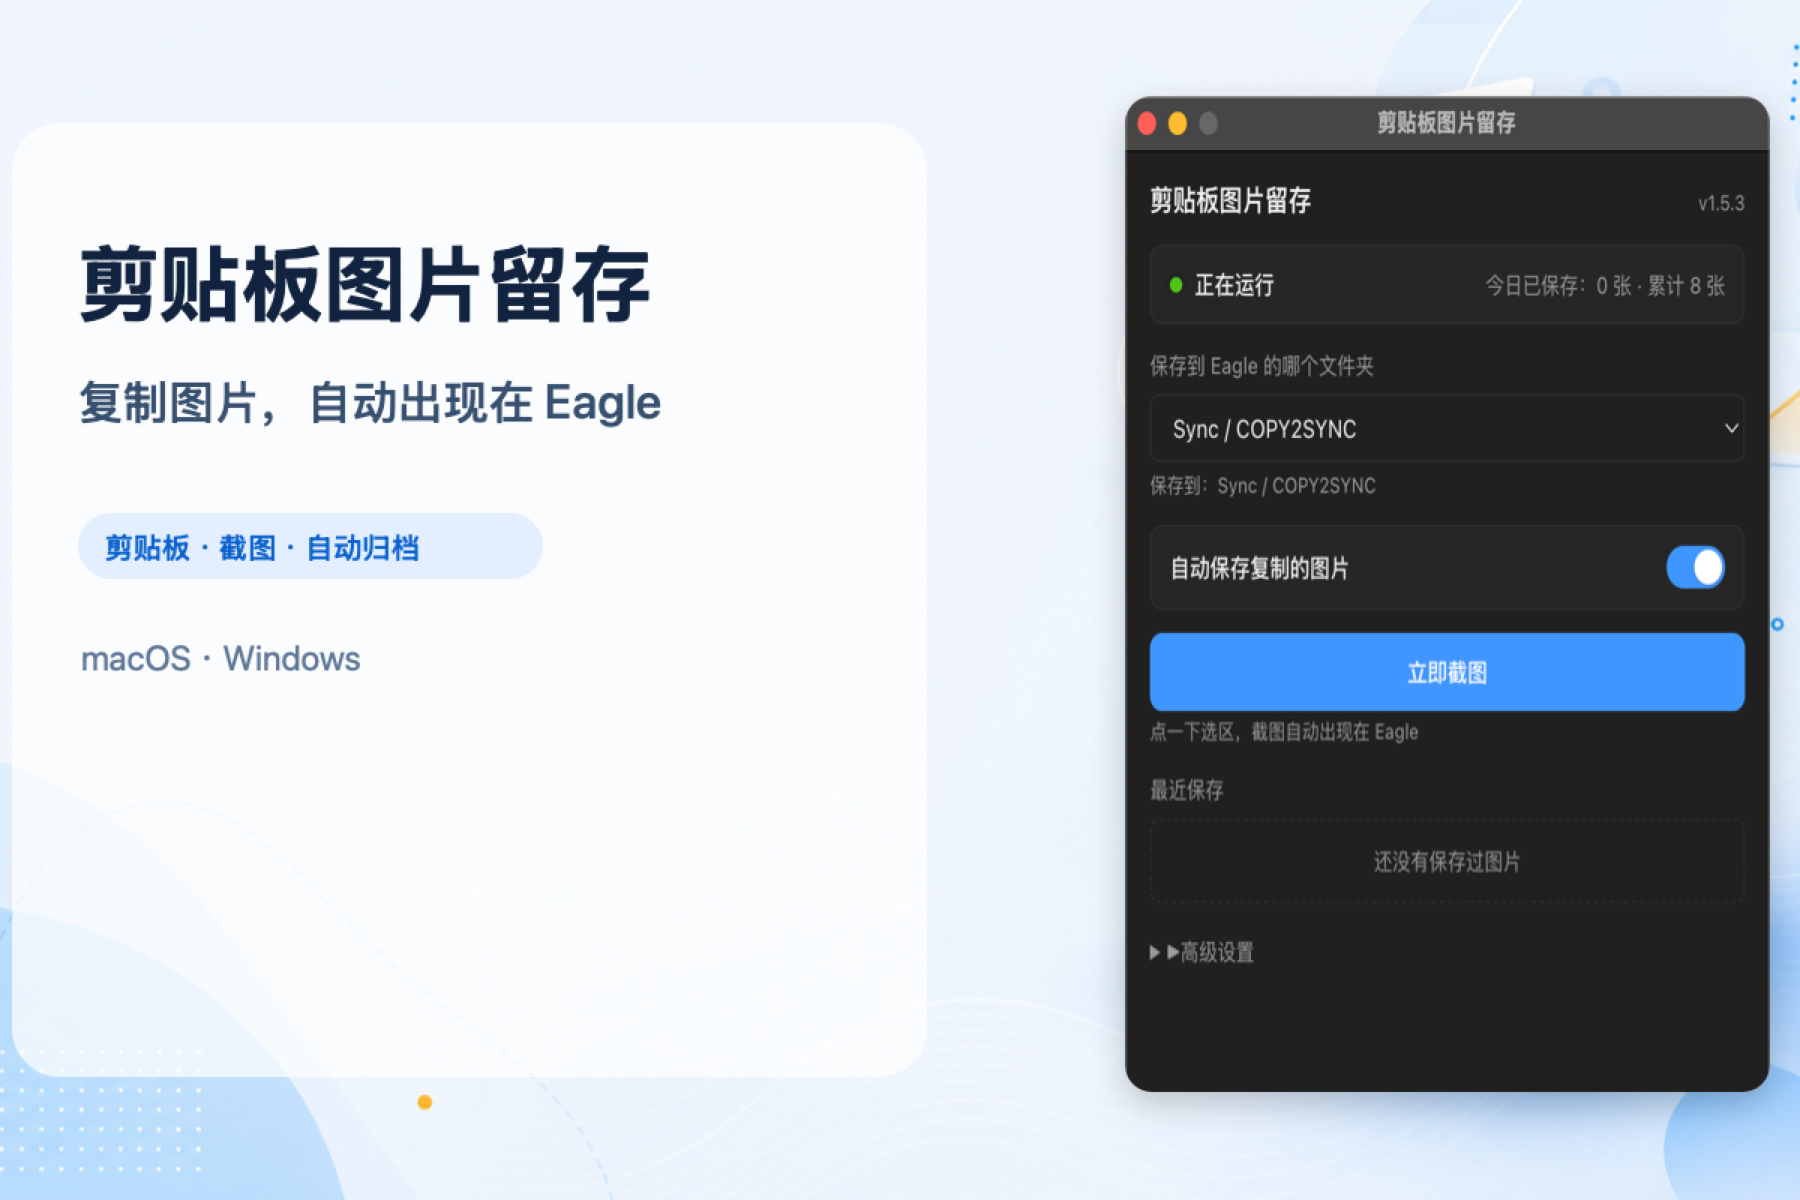
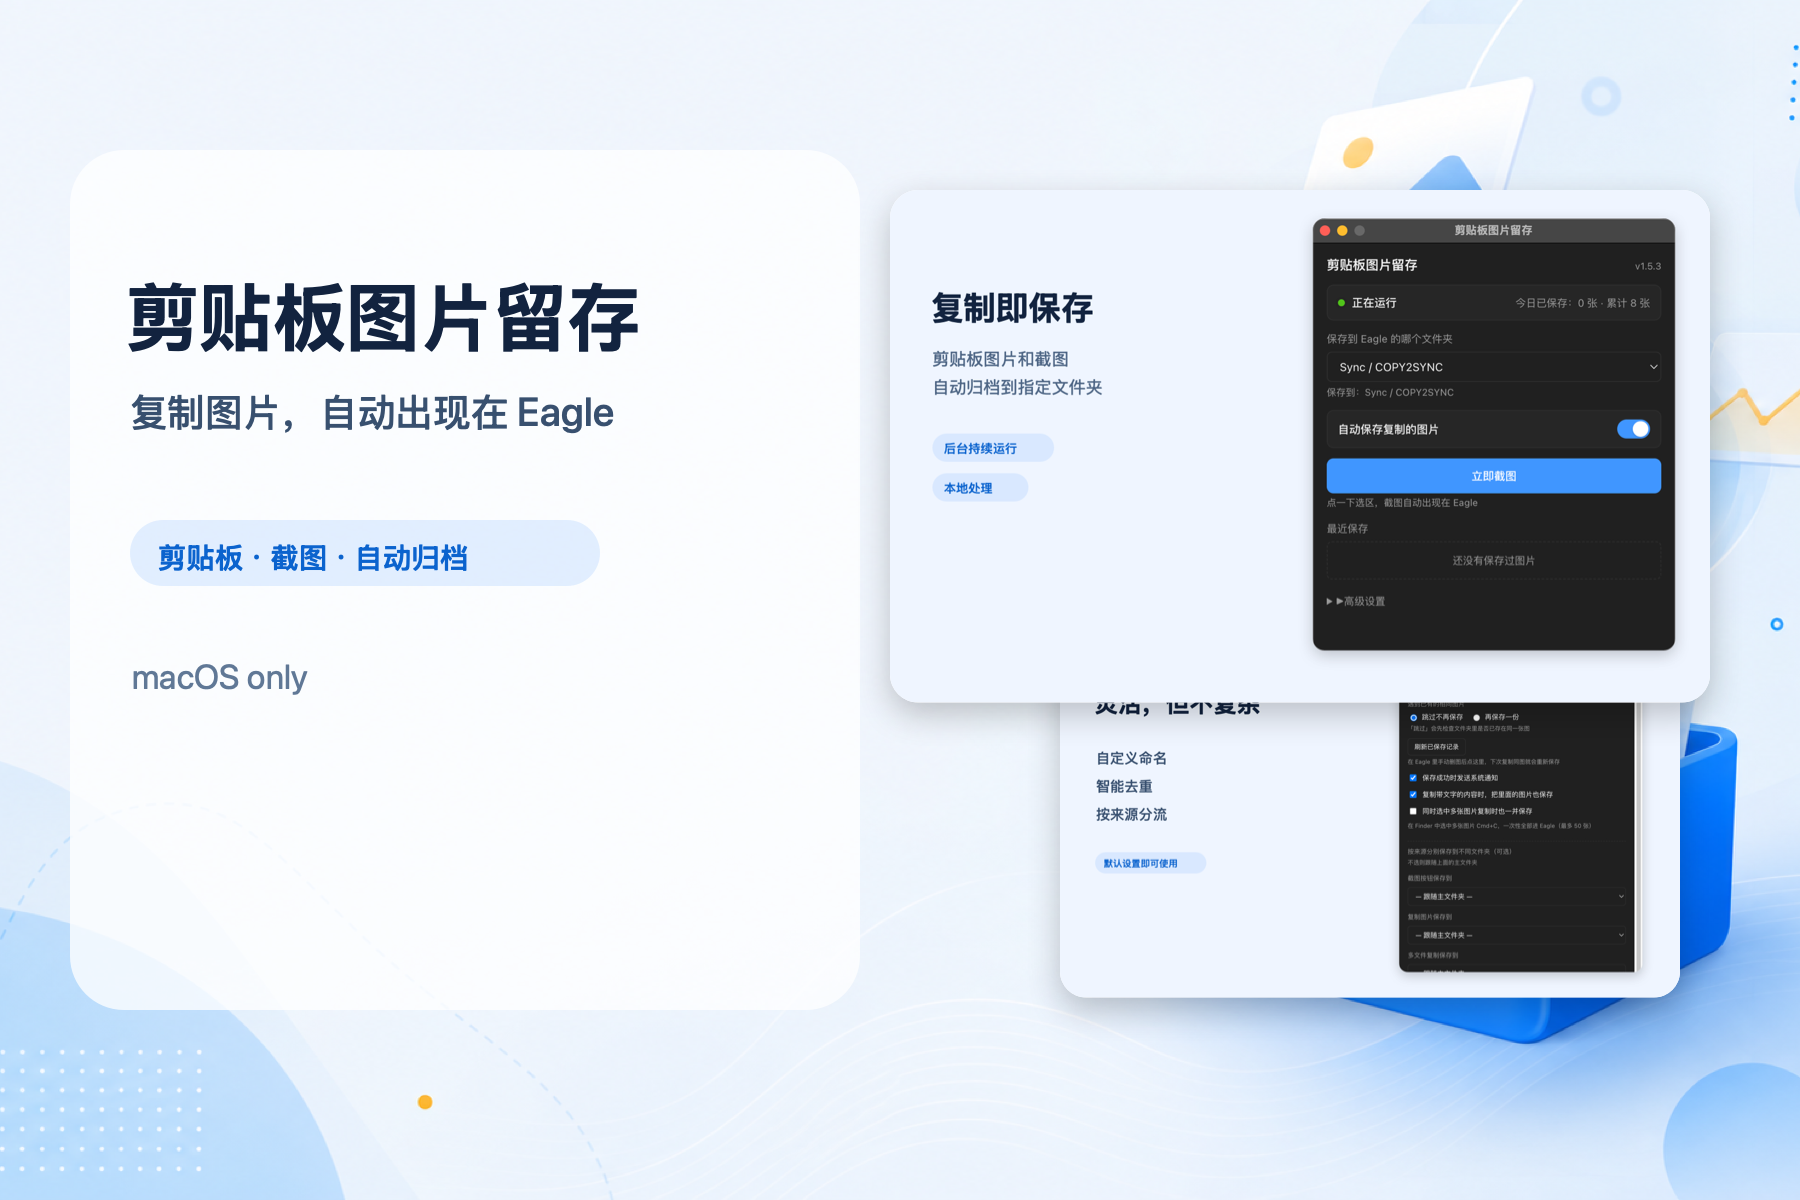
🖼 fix(docs): 修正商店封面截图比例
Entire-Checkpoint: 955cd891ff1c

diff --git a/build/cover-v2.swift b/build/cover-v2.swift
@@ -1,0 +1,164 @@
+import AppKit
+
+let canvasSize = NSSize(width: 1800, height: 1200)
+
+func color(_ hex: UInt32, alpha: CGFloat = 1) -> NSColor {
+    NSColor(
+        red: CGFloat((hex >> 16) & 0xff) / 255,
+        green: CGFloat((hex >> 8) & 0xff) / 255,
+        blue: CGFloat(hex & 0xff) / 255,
+        alpha: alpha
+    )
+}
+
+func load(_ path: String) -> NSImage {
+    guard let image = NSImage(contentsOfFile: path) else {
+        fatalError("Cannot load image: \(path)")
+    }
+    if let rep = image.representations.first {
+        image.size = NSSize(width: rep.pixelsWide, height: rep.pixelsHigh)
+    }
+    return image
+}
+
+func rect(top: CGFloat, left: CGFloat, width: CGFloat, height: CGFloat) -> NSRect {
+    NSRect(x: left, y: canvasSize.height - top - height, width: width, height: height)
+}
+
+func drawAspectFill(_ image: NSImage, in target: NSRect) {
+    let scale = max(target.width / image.size.width, target.height / image.size.height)
+    let sourceWidth = target.width / scale
+    let sourceHeight = target.height / scale
+    let source = NSRect(
+        x: (image.size.width - sourceWidth) / 2,
+        y: (image.size.height - sourceHeight) / 2,
+        width: sourceWidth,
+        height: sourceHeight
+    )
+    image.draw(in: target, from: source, operation: .sourceOver, fraction: 1)
+}
+
+func drawCard(_ image: NSImage, top: CGFloat, left: CGFloat, width: CGFloat, height: CGFloat, radius: CGFloat = 24) {
+    let target = rect(top: top, left: left, width: width, height: height)
+
+    NSGraphicsContext.saveGraphicsState()
+    let shadow = NSShadow()
+    shadow.shadowColor = NSColor.black.withAlphaComponent(0.22)
+    shadow.shadowBlurRadius = 34
+    shadow.shadowOffset = NSSize(width: 0, height: -12)
+    shadow.set()
+    color(0xffffff).setFill()
+    NSBezierPath(roundedRect: target, xRadius: radius, yRadius: radius).fill()
+    NSGraphicsContext.restoreGraphicsState()
+
+    NSGraphicsContext.saveGraphicsState()
+    NSBezierPath(roundedRect: target, xRadius: radius, yRadius: radius).addClip()
+    image.draw(
+        in: target,
+        from: NSRect(origin: .zero, size: image.size),
+        operation: .sourceOver,
+        fraction: 1
+    )
+    NSGraphicsContext.restoreGraphicsState()
+}
+
+func drawText(
+    _ text: String,
+    top: CGFloat,
+    left: CGFloat,
+    width: CGFloat,
+    size: CGFloat,
+    weight: NSFont.Weight,
+    textColor: NSColor,
+    lineHeight: CGFloat? = nil
+) {
+    let paragraph = NSMutableParagraphStyle()
+    paragraph.lineBreakMode = .byWordWrapping
+    paragraph.maximumLineHeight = lineHeight ?? size * 1.34
+    paragraph.minimumLineHeight = lineHeight ?? size * 1.34
+    let attributes: [NSAttributedString.Key: Any] = [
+        .font: NSFont.systemFont(ofSize: size, weight: weight),
+        .foregroundColor: textColor,
+        .paragraphStyle: paragraph,
+    ]
+    let height = max(size * 1.4, (lineHeight ?? size * 1.34) * 3)
+    NSString(string: text).draw(
+        with: rect(top: top, left: left, width: width, height: height),
+        options: [.usesLineFragmentOrigin, .usesFontLeading],
+        attributes: attributes
+    )
+}
+
+func drawPill(_ text: String, top: CGFloat, left: CGFloat, width: CGFloat) {
+    let target = rect(top: top, left: left, width: width, height: 66)
+    color(0x1677ff, alpha: 0.11).setFill()
+    NSBezierPath(roundedRect: target, xRadius: 33, yRadius: 33).fill()
+    drawText(
+        text,
+        top: top + 13,
+        left: left + 28,
+        width: width - 56,
+        size: 30,
+        weight: .semibold,
+        textColor: color(0x0b63ce)
+    )
+}
+
+func makeImage(background: NSColor, draw: () -> Void) -> NSBitmapImageRep {
+    let rep = NSBitmapImageRep(
+        bitmapDataPlanes: nil,
+        pixelsWide: Int(canvasSize.width),
+        pixelsHigh: Int(canvasSize.height),
+        bitsPerSample: 8,
+        samplesPerPixel: 4,
+        hasAlpha: true,
+        isPlanar: false,
+        colorSpaceName: .deviceRGB,
+        bytesPerRow: 0,
+        bitsPerPixel: 0
+    )!
+    rep.size = canvasSize
+    let context = NSGraphicsContext(bitmapImageRep: rep)!
+    NSGraphicsContext.saveGraphicsState()
+    NSGraphicsContext.current = context
+    background.setFill()
+    NSBezierPath(rect: NSRect(origin: .zero, size: canvasSize)).fill()
+    draw()
+    context.flushGraphics()
+    NSGraphicsContext.restoreGraphicsState()
+    return rep
+}
+
+func write(_ rep: NSBitmapImageRep, to path: String) {
+    guard let data = rep.representation(using: .png, properties: [:]) else {
+        fatalError("Cannot encode PNG: \(path)")
+    }
+    try! data.write(to: URL(fileURLWithPath: path))
+}
+
+guard CommandLine.arguments.count == 5 else {
+    fatalError("Usage: cover-v2.swift <background> <overview-shot> <settings-shot> <output>")
+}
+
+let background = load(CommandLine.arguments[1])
+let overview = load(CommandLine.arguments[2])
+let settings = load(CommandLine.arguments[3])
+let output = CommandLine.arguments[4]
+
+let cover = makeImage(background: color(0xf4f8ff)) {
+    drawAspectFill(background, in: NSRect(origin: .zero, size: canvasSize))
+
+    let panel = rect(top: 150, left: 70, width: 790, height: 860)
+    color(0xffffff, alpha: 0.76).setFill()
+    NSBezierPath(roundedRect: panel, xRadius: 54, yRadius: 54).fill()
+
+    drawText("剪贴板图片留存", top: 255, left: 126, width: 640, size: 78, weight: .bold, textColor: color(0x12233f))
+    drawText("复制图片，自动出现在 Eagle", top: 380, left: 130, width: 620, size: 40, weight: .medium, textColor: color(0x38506f))
+    drawPill("剪贴板 · 截图 · 自动归档", top: 520, left: 130, width: 470)
+    drawText("macOS only", top: 650, left: 132, width: 360, size: 34, weight: .regular, textColor: color(0x607896))
+
+    drawCard(settings, top: 610, left: 1060, width: 620, height: 387.5, radius: 26)
+    drawCard(overview, top: 190, left: 890, width: 820, height: 512.5, radius: 28)
+}
+
+write(cover, to: output)

diff --git a/assets/plugin-center/README.md b/assets/plugin-center/README.md
@@ -2,7 +2,7 @@
 
 ## Final Files
 
-- `cover-1800x1200.png` — Plugin Center cover for upload; 3:2 ratio and exceeds the current first-image minimum of 1560×1040 px
+- `cover-1800x1200.png` — Plugin Center cover for upload; 3:2 ratio and exceeds the current first-image minimum of 1560×1040 px. The v2 cover preserves screenshot aspect ratios and labels the release as `macOS only`.
 - `screenshot-01-overview.png` — main panel and core workflow
 - `screenshot-02-eagle-result.png` — imported images shown in Eagle
 - `screenshot-03-settings.png` — naming, deduplication, and routing settings
@@ -19,10 +19,12 @@ The cover image is 1800×1200 PNG. The three feature screenshots are 1280×800 P
 
 ## Generation
 
-Run `swift build/store-assets.swift <background> <overview> <eagle> <settings> <output-dir>`.
+Run `swift build/cover-v2.swift <background> <overview-shot> <settings-shot> <output>` to regenerate the cover.
+
+Run `swift build/store-assets.swift <background> <overview> <eagle> <settings> <output-dir>` only when regenerating the full screenshot set from the original raw captures.
 
 The cover background was generated with the built-in image generation tool using:
 
 > Clean premium abstract background for a clipboard image archiving plugin; subtle image-card flow into an archive tray; light blue-gray, #1677ff blue, cyan and a small warm-yellow accent; wide 16:10 layout; no text, logo, UI, or watermark.
 
-The product UI remains pixel-preserved from real Eagle screenshots and is composed locally by the Swift script.
+The product UI remains pixel-preserved from real Eagle screenshots and is composed locally by the Swift script. Cover screenshot cards must not be stretched to non-native aspect ratios.
